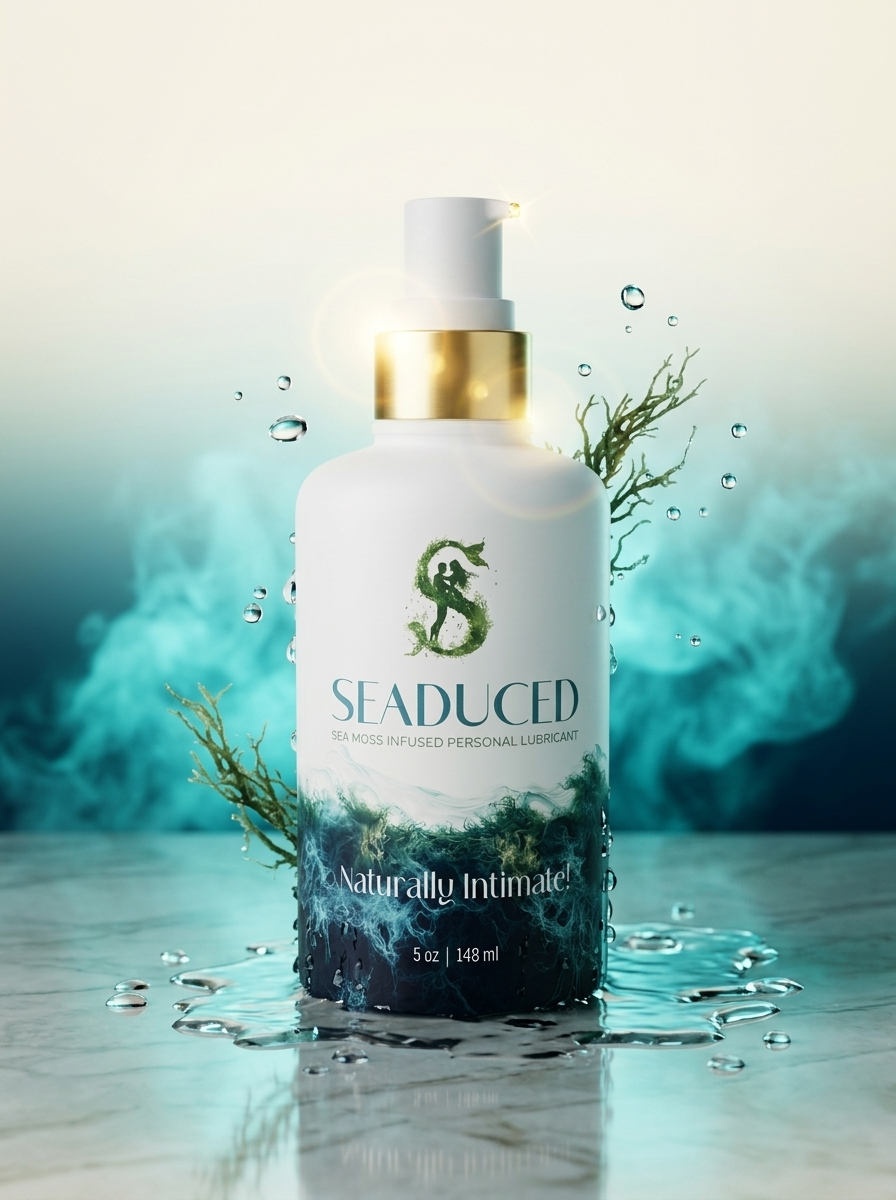
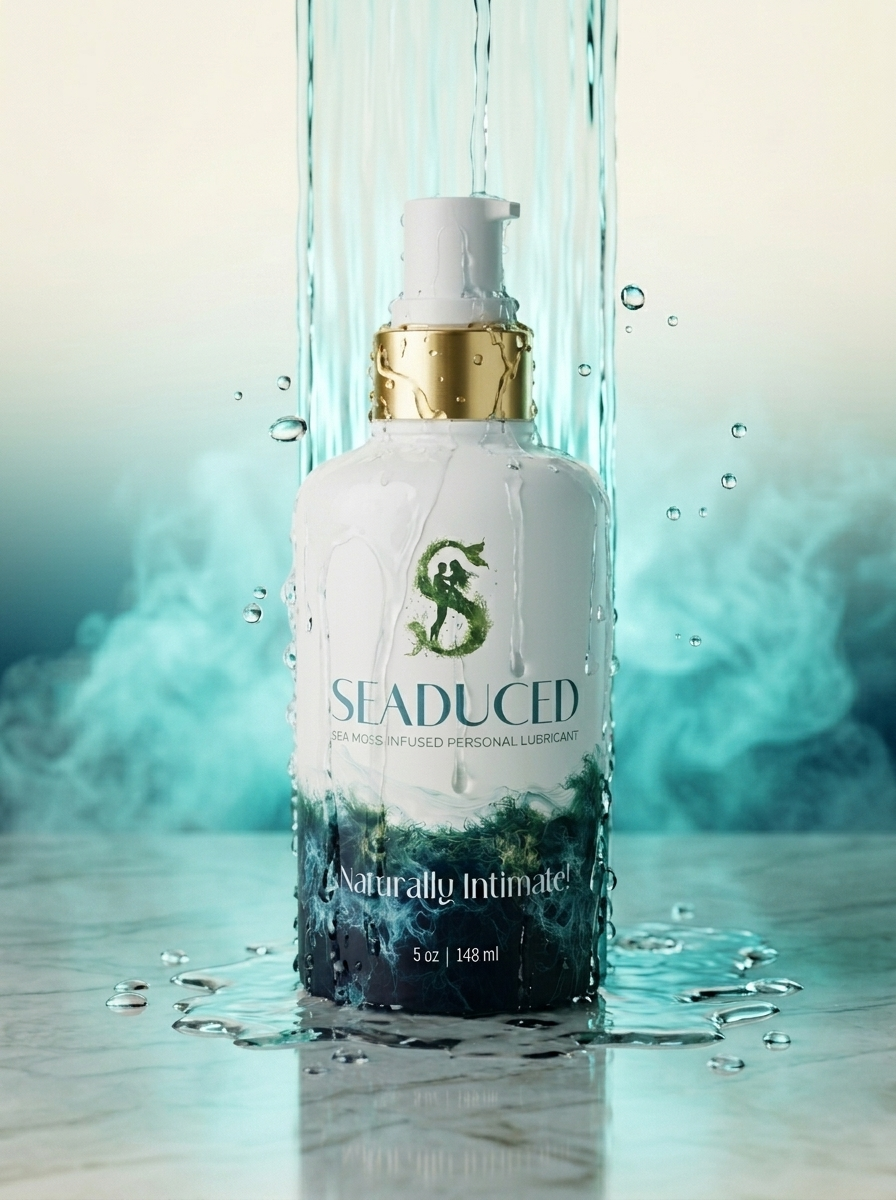
feat(parallax): drop Primed frame; refresh F1 emerge + F2 beauty + F4 bead with heavier water; archive passthrough

diff --git a/src/components/sections/ParallaxSplash.tsx b/src/components/sections/ParallaxSplash.tsx
@@ -7,7 +7,6 @@ import Image from "next/image";
 const FRAMES = [
   { src: "/images/parallax/f1-mist.jpg", alt: "Seaduced bottle emerging from sea mist", eyebrow: "From the sea", title: "Emerge." },
   { src: "/images/parallax/f2-beauty.jpg", alt: "Seaduced bottle at rest on cream marble", eyebrow: "Naturally intimate", title: "At rest." },
-  { src: "/images/parallax/f3-primed.jpg", alt: "Seaduced bottle with gold halo on the pump", eyebrow: "Ready", title: "Primed." },
   { src: "/images/parallax/f4-bead.jpg", alt: "Seaduced bottle with first cream bead at the nozzle", eyebrow: "Begin", title: "A single bead." },
   { src: "/images/parallax/f5-stream.jpg", alt: "Seaduced cream stream arcing with sea-moss filaments", eyebrow: "Moment", title: "The pour." },
   { src: "/images/parallax/f6-splash.jpg", alt: "Seaduced peak splash with sea-moss strands", eyebrow: "Peak", title: "Naturally seaduced." },

diff --git a/brand-assets/splash-animation/archive-passthrough-2026-04-21/ARCHIVE-README.md b/brand-assets/splash-animation/archive-passthrough-2026-04-21/ARCHIVE-README.md
@@ -1,0 +1,33 @@
+# Seaduced Parallax - Passthrough Archive (2026-04-21)
+
+This directory preserves the 7-frame parallax splash sequence that Julian reviewed on 2026-04-21, before the same-day refresh.
+
+## Why this exists
+
+Julian's feedback on the 7-frame set:
+1. The F3 transition ("Ready / Primed.") didn't land visually and was dropped from the live sequence.
+2. F1 (mist entry), F2 (beauty), and F4 (first bead) needed more water drama / aqueous energy.
+3. F5, F6, F7 were fine as-is and carried forward unchanged.
+
+This archive is the **reviewable pass-through version** — a frozen reference so Gina (or anyone else auditing) can see the before-state and compare it against the 2026-04-21 refresh.
+
+## Files
+
+| File | Role in the original sequence |
+|------|-------------------------------|
+| `f1-mist.jpg` | Emerge from sea mist |
+| `f2-beauty.jpg` | Beauty shot on cream marble |
+| `f3-primed.jpg` | Gold halo on pump ("Ready / Primed.") - DROPPED from live sequence |
+| `f4-bead.jpg` | First cream bead at the nozzle |
+| `f5-stream.jpg` | Cream stream arcing with sea-moss filaments |
+| `f6-splash.jpg` | Peak splash |
+| `f7-settle.jpg` | Settled with cream pool on marble |
+
+Files are marked read-only to prevent accidental overwrite.
+
+## Live sequence (post-2026-04-21)
+
+After this archive was taken, the live parallax in `src/components/sections/ParallaxSplash.tsx`:
+- Removed F3 entirely (6 frames total now)
+- Regenerated F1, F2, F4 with heavier water effect via Nano Banana
+- Kept F5, F6, F7 unchanged
